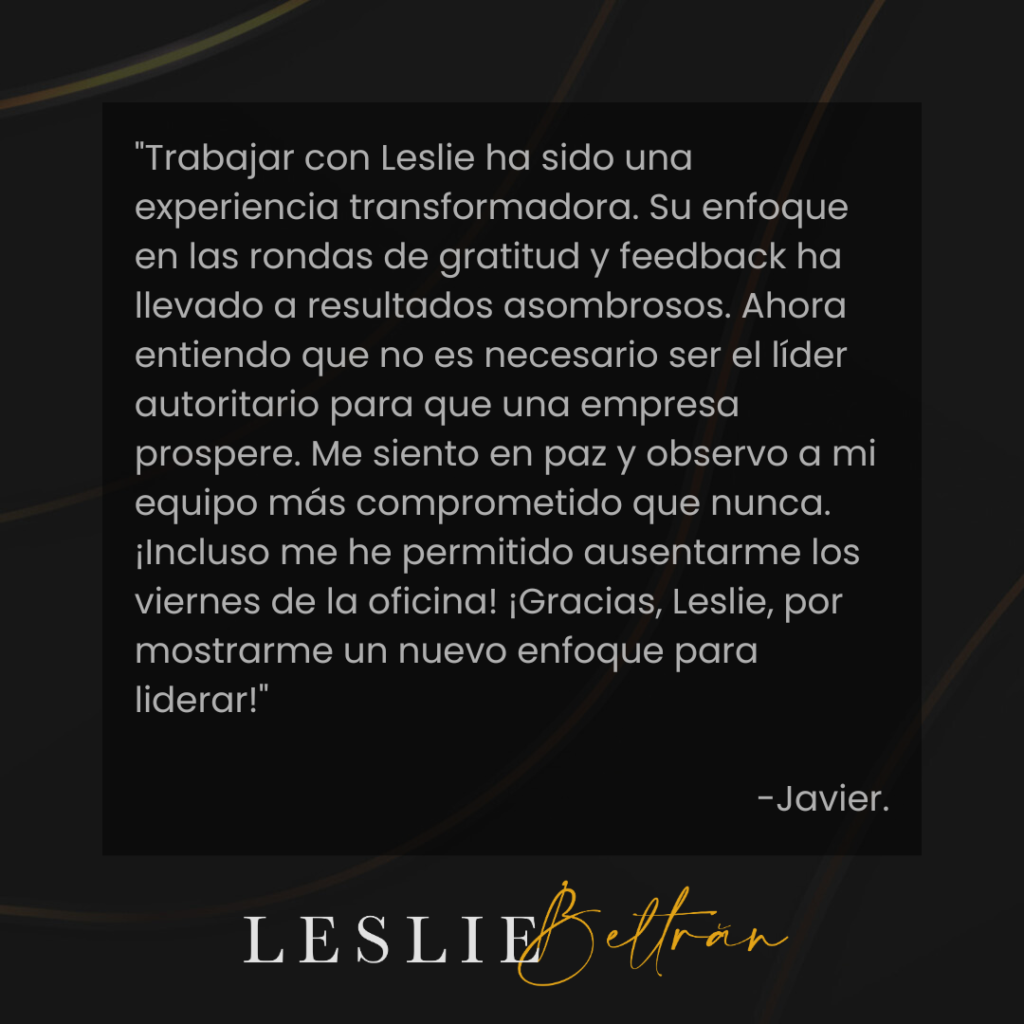
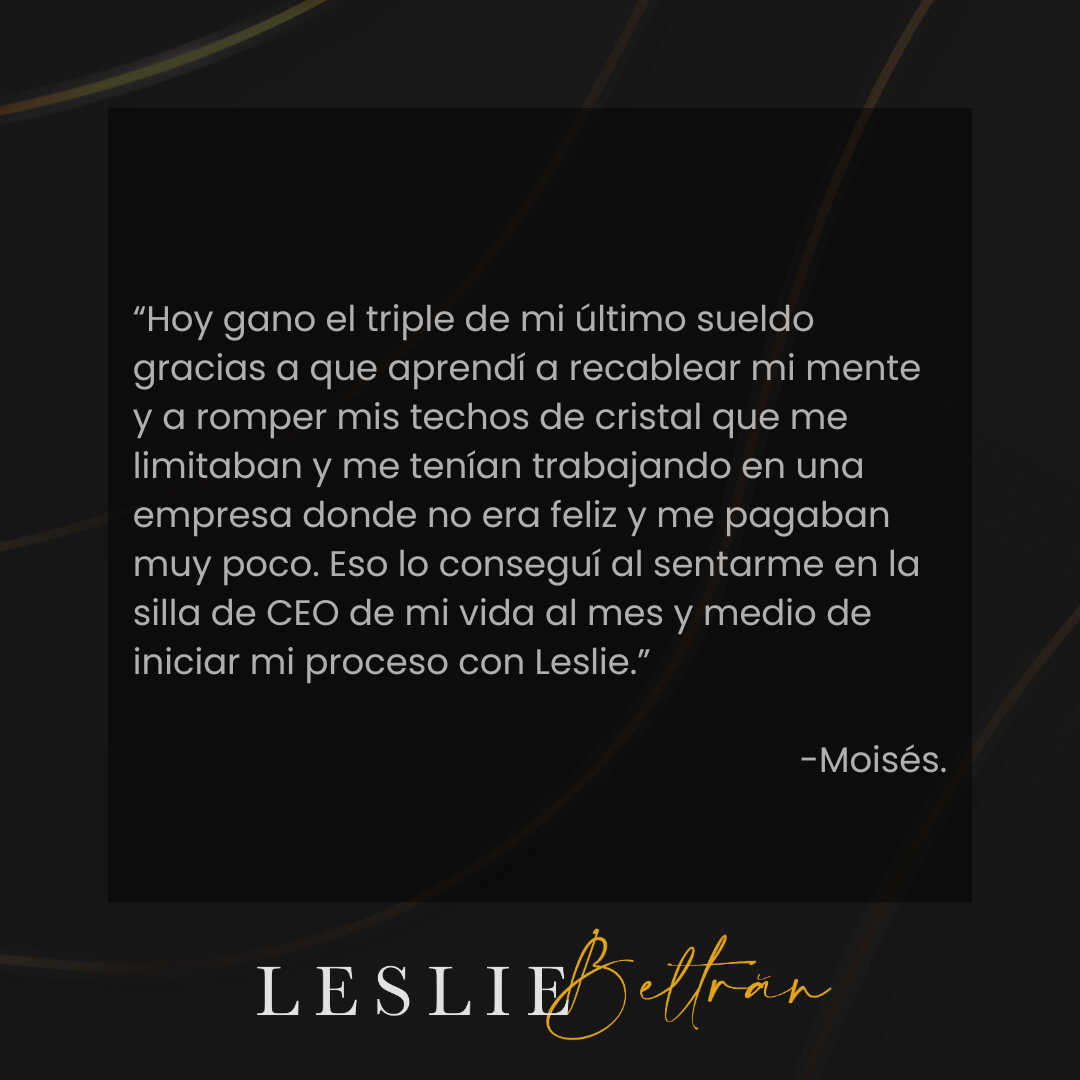
Text and Testimonial

Changed region(s): [[0.125, 0.125, 0.875, 0.7188], [0.75, 0.75, 0.8438, 0.8125], [0.75, 0.6875, 0.875, 0.7188]]

diff --git a/src/routes/ceo-training/+page.svelte b/src/routes/ceo-training/+page.svelte
@@ -13,58 +13,58 @@
     <div class="flex gap-12 px-4 py-12 text-left lg:text-left">
       <div class="flex flex-col justify-center flex-1 gap-4">
         <p class="text-left lg:text-left">
-          ¿Sabían que sus proyectos y empresas más importantes son sus vidas?
+          ¿Sabías que tu proyecto y empresa más importantes es tu vida?
         </p>
         <p class="text-left lg:text-left">
-          En CEO TRAINING, les ofrecemos un programa de mentoría grupal integral,
-          diseñado para transformar sus vidas y liderazgo.
+          En CEO TRAINING, te ofrecemos un programa de mentoría grupal integral,
+          diseñado para transformar tu vida y liderazgo.
         </p>        
         <p class="text-left lg:text-left">
           Este programa incluye:
         </p>
         <ol class="flex flex-col gap-4 list-disc my-8 mx-8">
           <li>
-            <b>Onboarding:</b> Sus bienvenidas como CEOs de sus vidas y establecimiento de los
-            <b>indicadores de desempeño de sus vidas EXTRA-ordinarias</b>. Medimos
+            <b>Onboarding:</b> Tu bienvenida como CEOs de tu vida y establecimiento de los
+            <b>indicadores de desempeño de tu vidas EXTRA-ordinarias</b>. Medimos
             muchas cosas en nuestras vidas, pero casi nunca medimos nuestro propio
-            desempeño en nuestro día a día, así que aquí elaboran sus KPIs y de
-            manera mensual los evaluamos para ver si están enfocados realmente en
-            lo que quieren vivir, sentir y tener.
+            desempeño en nuestro día a día, así que aquí elabomos tus KPIs y de
+            manera mensual te evaluamos para ver si estás enfocado realmente en
+            lo que quieress vivir, sentir y tener.
           </li>
           <li>
-            <b>Recableado mental:</b> Les enseño a usar sus cerebros de forma
-            funcional y cómo trabajar su inteligencia emocional desde la
-            perspectiva de las neurociencias. Aquí también empiezan a descubrir
-            sus techos de cristal y hacemos una
+            <b>Recableado mental:</b> Te enseñamos a usar tu cerebro de forma
+            funcional y cómo trabajar tu inteligencia emocional desde la
+            perspectiva de las neurociencias. Aquí también empiezas a descubrir
+            tus techos de cristal y hacemos una
             <b
               >poda neuronal para erradicar los patrones de pensamiento y
               comportamiento</b
-            > que ya no les son funcionales.
+            > que ya no son funcionales para ti.
           </li>
           <li>
-            <b>Creación cuántica:</b> Les enseño a convertirse en creadores
+            <b>Creación cuántica:</b> Te enseñamos a convertirte en un creador
             cuánticos y a
-            <b>transformar su realidad a través de lo que piensan y sienten</b>.
-            También aprenderán cómo dejar de ser las personas que han venido
-            siendo, para transformarse en nuevas versiones de ustedes:
-            <b>más valientes, más audaces, más creativas y más brillantes</b>. No es
+            <b>transformar tu realidad a través de lo que piensas y sientes</b>.
+            También aprenderás cómo dejar de ser la persona que han venido
+            siendo, para transformarte en una nueva versión de ti:
+            <b>más valientes, más audaz, más creativa y más brillante</b>. No es
             brujería, es ciencia 😉
             
           </li>
           <li>
             <b>Riqueza y abundancia:</b> Revisamos en qué proyectos, personas o
-            situaciones están invirtiendo sus 5 recursos más importantes:
-            <b>tiempo, energía, emociones, pensamientos y dinero</b> y si les
-            están dando las ganancias que quieren o no. <br /><br /> Y les enseñamos cómo
-            generarse una vida más abundante, ya que la abundancia es una forma
-            de ser, así que aquí aprenden a ser <b>imanes de bendiciones</b>.
+            situaciones estás invirtiendo tus 5 recursos más importantes:
+            <b>tiempo, energía, emociones, pensamientos y dinero</b> y si te
+            están dando las ganancias que quieres o no. <br /><br /> Y te enseñamos cómo
+            generar una vida más abundante, ya que la abundancia es una forma
+            de ser, así que aquí aprendes a ser <b>un imán de bendiciones</b>.
             
           </li>
           <li>
             <b>Rebeldía:</b> Nos han enseñado a no incomodar, a no molestar,
             a encajar a la fuerza y a contenernos. Así que en este módulo
-            rompemos con eso y les muestro cómo ser rebeldes para ser ustedes mismos, a
-            ser rebeldes para ir por sus sueños más ambiciosos y a
+            rompemos con eso y te mostramos cómo ser rebelde para ser tú mismo, a
+            ser rebelde para ir por tus sueños más ambiciosos y a
             <b>tomar decisiones impopulares sin culpa</b>.
           </li>
         </ol>
@@ -72,27 +72,27 @@
           <img src="/training.webp" alt="Training" />
         </div>
         <p class="text-left lg:text-left">
-          Adicional a todo esto, también tendrán:
+          Adicional a todo esto, también tendrás:
         </p>
         <ul class="flex flex-col gap-4 list-disc my-8 mx-8">
           <li>
-            Todos los sábados por la mañana tendrán clases de yoga porque mi
+            Todos los sábados por la mañana tendrás clases de yoga porque mi
             premisa es que <b>una mente flexible vive en un cuerpo flexible</b> y
-            si sus mentes ven que sus cuerpos van más allá de sus límites, sus mentes también
-            se empiezan a expandir.
+            si tu mente ve que tu cuerpo va más allá de sus límites, tu mentes también
+            se empieza a expandir.
           </li>
           <li>
             Master classes con expertos invitados, un sábado al mes, para que
-            puedan tener herramientas de otros expertos que les ayudarán a
-            <b>aumentar la rentabilidad de sus vidas</b>.            
+            puedas tener herramientas de otros expertos que te ayudarán a
+            <b>aumentar la rentabilidad de tu vida</b>.            
           </li>
         </ul>
         <p>
           El objetivo del CEO TRAINING es que tengan herramientas para hacer
-          <b>sus Vidas Altamente Rentables</b>
-          con más tiempo, más energía, más salud, más felicidad, propósito y dinero, escribiendo sus
+          <b>tu Vida Altamente Rentable</b>
+          con más tiempo, más energía, más salud, más felicidad, propósito y dinero, escribiendo tus
           sueños más ambiciosos, y así dejar de repetir patrones de pensamiento y comportamiento que
-          aprendieron en casa y que son de la abuelita de su abuelita.          
+          aprendiste en casa y que son de la abuelita de tu abuelita.          
         </p>
       </div>
     </div>

diff --git a/src/components/CEODeTuVida.svelte b/src/components/CEODeTuVida.svelte
@@ -21,7 +21,12 @@
       </p>
       <p class="text-left lg:text-left py-4">
         Así que antes de liderar un proyecto, un equipo, una organización o un
-        hogar, es crucial que empieces por liderar tu propia vida con maestría.
+        hogar, es crucial que empieces por liderar tu propia vida con maestría 
+        porque si tú no te sientas en la silla de CEO de tu vida, entonces te 
+        conviertes en el office boy de tus miedos, inseguridades, tu pasado o 
+        de los demás. 
+
+        Ser CEO de tu vida implica también crear tu propia filosofía de vida, para vivir bajo tus propias reglas ya que si al día de hoy no estás satisfecho.
       </p>
       <h1 class="font-[600] text-left pb-4 mt-12">¿Por qué es importante?</h1>
       <p class="text-left lg:text-left py-4">
@@ -33,15 +38,18 @@
         ver contigo.
       </p>
       <p class="text-left lg:text-left py-4">
-        Si quieres tener una vida EXTRA-ordinaria y lograr tus metas más
+        Si quieres tener una Vida Altamente Rentable y lograr tus metas más
         ambiciosas, es momento de romper ese ciclo y recablear tu mente para que
         pienses, decidas y actúes según tus propias reglas.
       </p>
       <h1 class="font-[600] text-left pb-4 mt-12">¿Qué ofrecemos?</h1>
       <p class="text-left lg:text-left py-4">
-        CEO de tu Vida es un programa exclusivo de coaching diseñado para
-        líderes y visionarios como tú, que buscan transformar su vida personal y
-        profesional. Ofrecemos 3 formatos únicos para que dejes de ser el office
+        CEO de tu vida es una metodología que cuenta con varios programas exclusivos
+        para Ejecutivos y Empresarios de alto nivel, que buscan transformar su vida 
+        personal y profesional. 
+      </p>
+      <p class="text-left lg:text-left py-4">
+      Ofrecemos 3 formatos únicos para que dejes de ser el office
         boy y te transformes en CEO de tu vida:
       </p>
     </div>

diff --git a/src/components/Testimonios.svelte b/src/components/Testimonios.svelte
@@ -83,6 +83,18 @@
           alt="Testimonio de un cliente"
         /></swiper-slide
       >
+      <swiper-slide
+        ><img
+          src="testimonios/testi11.png"
+          alt="Testimonio de un cliente"
+        /></swiper-slide
+      >
+      <swiper-slide
+        ><img
+          src="testimonios/testi12.png"
+          alt="Testimonio de un cliente"
+        /></swiper-slide
+      >
     </swiper-container>
   </FadeUp>
 </section>
